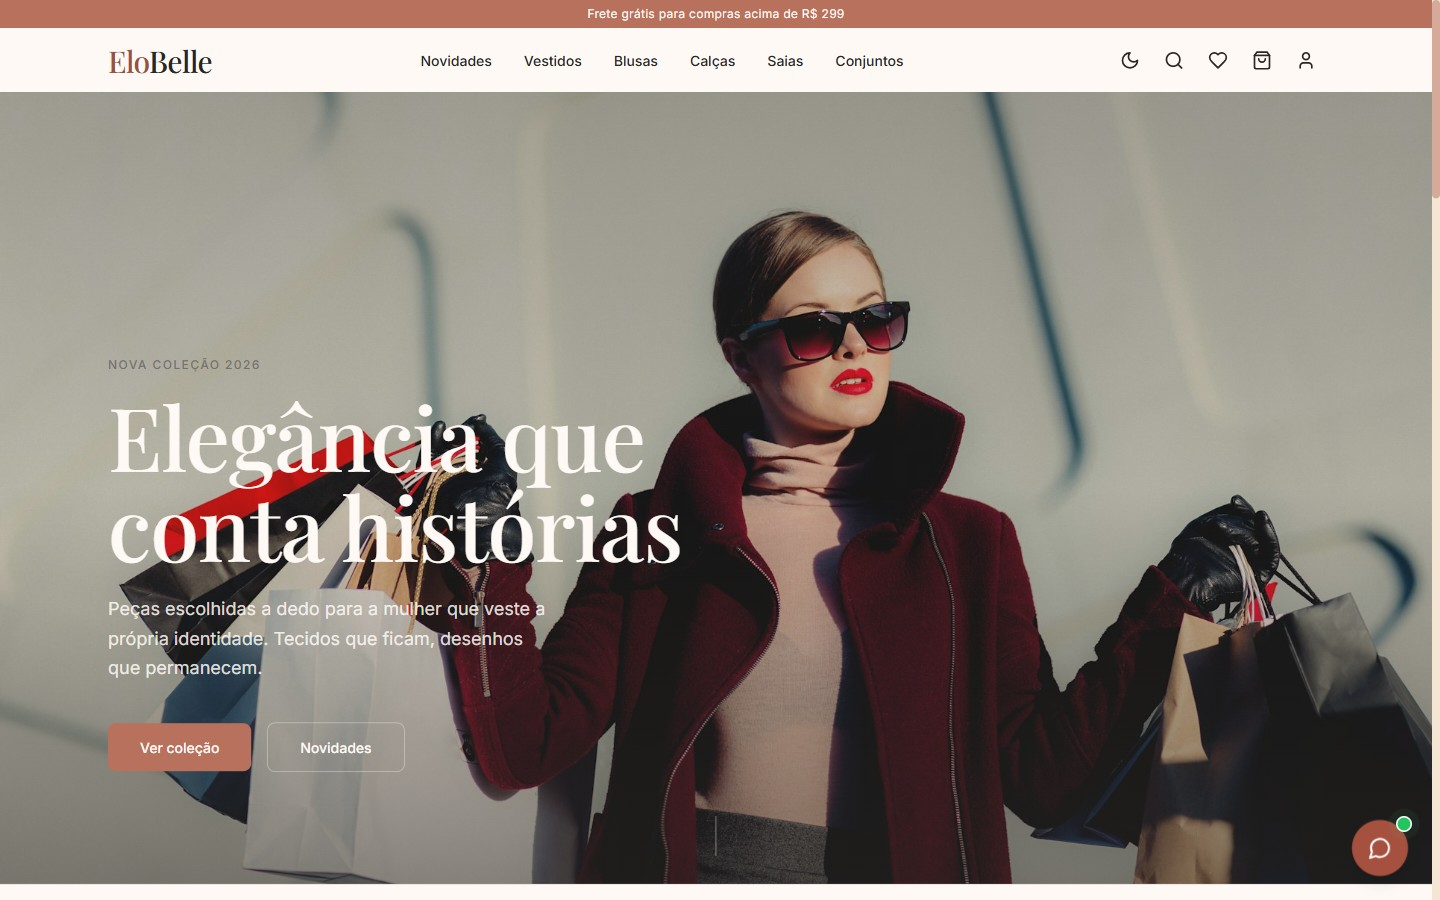
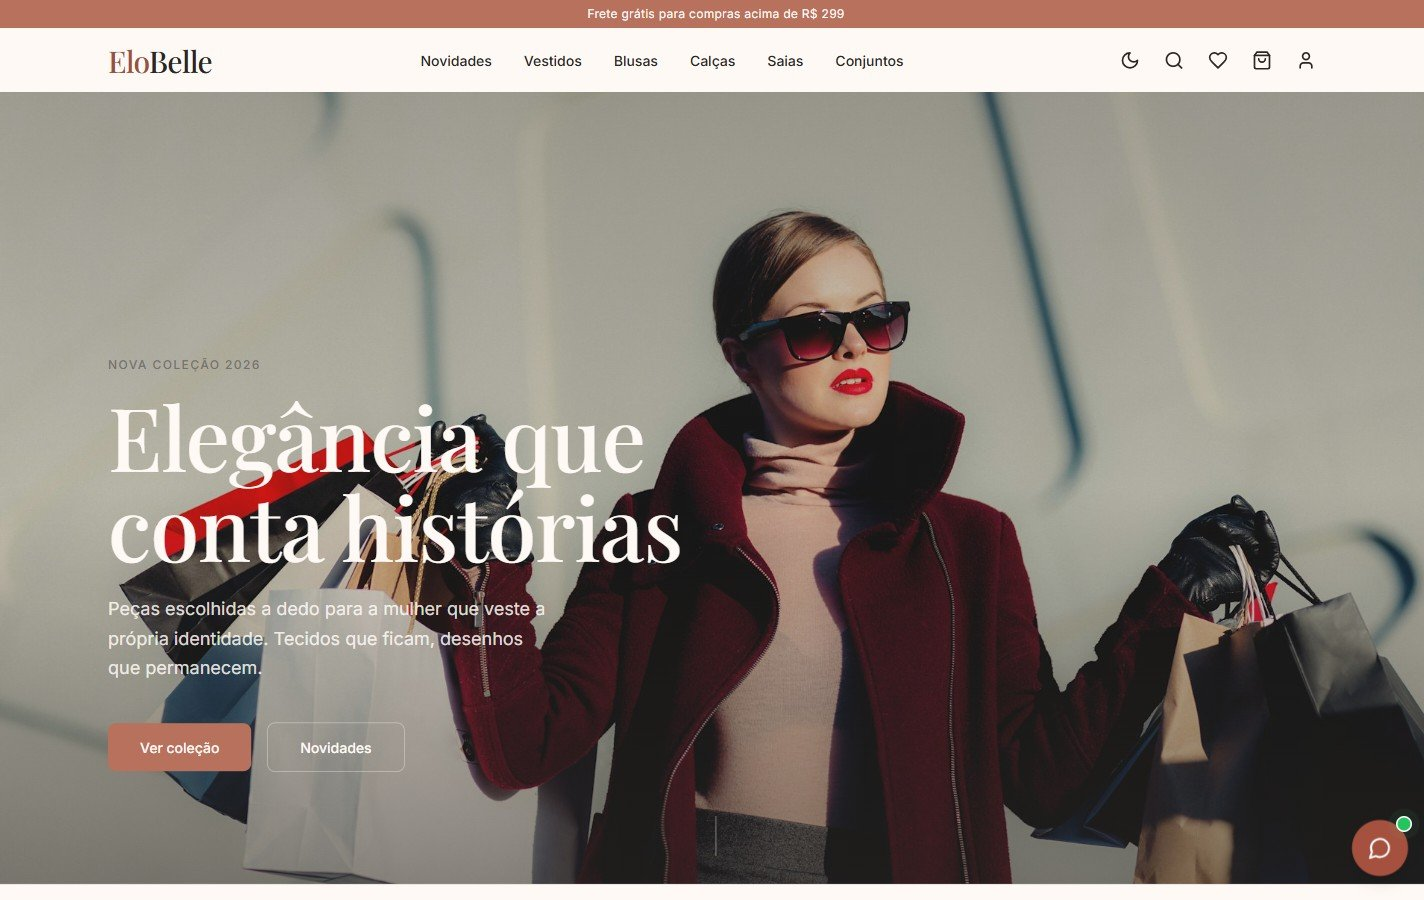
feat(projetos): faixa de numeros e projetos 001-005 com prints revelados e outros projetos

diff --git a/src/components/sections/Projects.tsx b/src/components/sections/Projects.tsx
@@ -1,0 +1,122 @@
+import { motion, useReducedMotion } from 'motion/react';
+import { featured, others } from '../../data/projects';
+import { useT } from '../../i18n/useT';
+import { ui } from '../../i18n/ui';
+import type { Project, ProjectLinks } from '../../types';
+import BlurText from '../ui/BlurText';
+import Label from '../ui/Label';
+import AiFlow from '../ui/AiFlow';
+
+function Links({ links, isPrivate }: { links: ProjectLinks; isPrivate?: boolean }) {
+  const { t } = useT();
+  const items = [
+    links.site && { href: links.site, label: t(ui.projects.site) },
+    links.demo && { href: links.demo, label: t(ui.projects.demo) },
+    links.code && { href: links.code, label: t(ui.projects.code) },
+  ].filter(Boolean) as Array<{ href: string; label: string }>;
+  return (
+    <div className="flex flex-wrap items-center gap-4 font-mono text-xs">
+      {items.map((l) => (
+        <a
+          key={l.href}
+          href={l.href}
+          target="_blank"
+          rel="noreferrer"
+          className="underline decoration-orange-bright decoration-2 underline-offset-4 hover:text-orange"
+        >
+          {l.label} ↗
+        </a>
+      ))}
+      {isPrivate && <span className="text-muted">● {t(ui.projects.private)}</span>}
+    </div>
+  );
+}
+
+function Row({ p }: { p: Project }) {
+  const { t } = useT();
+  const reduce = useReducedMotion();
+  return (
+    <article className="grid gap-6 border-t border-line py-10 md:grid-cols-[80px_1fr_minmax(0,420px)] md:gap-8">
+      <p className="font-mono text-xs text-muted">
+        <span className="text-orange-bright">●</span> {p.num}
+      </p>
+      <div>
+        <h3 className="display text-3xl text-orange md:text-4xl">{p.name}</h3>
+        <p className="mt-1 font-mono text-xs text-muted">
+          {t(p.role)}
+          {p.period ? ` · ${t(p.period)}` : ''}
+        </p>
+        <p className="mt-4 max-w-[520px] text-[15px] leading-relaxed text-ink/80">{t(p.summary)}</p>
+        <ul className="mt-5 flex flex-wrap gap-1.5" aria-label="Stack">
+          {p.stack.map((s) => (
+            <li key={s} className="chip">
+              {s}
+            </li>
+          ))}
+        </ul>
+        <div className="mt-5">
+          <Links links={p.links} isPrivate={p.private} />
+        </div>
+      </div>
+      <motion.div
+        className="group aspect-[16/10] overflow-hidden rounded-md bg-ink"
+        initial={reduce ? false : { clipPath: 'inset(12% 12% 12% 12% round 6px)' }}
+        whileInView={{ clipPath: 'inset(0% 0% 0% 0% round 6px)' }}
+        viewport={{ once: true, margin: '0px 0px -15% 0px' }}
+        transition={{ duration: 0.9, ease: [0.16, 1, 0.3, 1] }}
+      >
+        {p.illustration === 'ai-flow' ? (
+          <AiFlow />
+        ) : (
+          <img
+            src={p.shot}
+            alt={p.shotAlt ? t(p.shotAlt) : ''}
+            loading="lazy"
+            width={1424}
+            height={900}
+            className="h-full w-full object-cover object-top transition-transform duration-500 ease-out group-hover:scale-[1.03]"
+          />
+        )}
+      </motion.div>
+    </article>
+  );
+}
+
+export default function Projects() {
+  const { t } = useT();
+  // "Software que | está no ar | e gente | usa": escurece a 2ª e a 4ª parte.
+  const parts = [ui.projects.titleA, ui.projects.titleB, ui.projects.titleC, ui.projects.titleD].map((p) => t(p));
+  const dimWords: number[] = [];
+  let idx = 0;
+  parts.forEach((part, pi) => {
+    const n = part.split(' ').length;
+    if (pi % 2 === 1) for (let k = 0; k < n; k++) dimWords.push(idx + k);
+    idx += n;
+  });
+  return (
+    <section id="projetos" className="bg-paper py-20 md:py-28">
+      <div className="container-x">
+        <Label>{t(ui.projects.label)}</Label>
+        <BlurText as="h2" className="display mt-5 text-[clamp(36px,6vw,72px)]" text={parts.join(' ')} dimWords={dimWords} />
+        <div className="mt-12">
+          {featured.map((p) => (
+            <Row key={p.id} p={p} />
+          ))}
+        </div>
+
+        <h3 className="mt-16 font-mono text-xs uppercase tracking-[0.08em] text-muted">{t(ui.projects.othersTitle)}</h3>
+        <ul className="mt-4 divide-y divide-line border-y border-line">
+          {others.map((o) => (
+            <li key={o.id} className="grid gap-2 py-4 md:grid-cols-[200px_1fr_auto] md:items-center md:gap-6">
+              <span className="font-extrabold">{o.name}</span>
+              <span className="text-sm text-ink/75">
+                {t(o.line)} <span className="font-mono text-[11px] text-muted">· {o.stack.join(' · ')}</span>
+              </span>
+              <Links links={o.links} />
+            </li>
+          ))}
+        </ul>
+      </div>
+    </section>
+  );
+}

diff --git a/src/components/ui/AiFlow.tsx b/src/components/ui/AiFlow.tsx
@@ -1,0 +1,39 @@
+import { useT } from '../../i18n/useT';
+
+const L = {
+  aria: {
+    pt: 'Pedido, roteador de provedores com failover, avaliação e fine-tuning',
+    en: 'Request, provider router with failover, evaluation and fine-tuning',
+  },
+  request: { pt: 'pedido', en: 'request' },
+  router: { pt: 'roteador', en: 'router' },
+  eval: { pt: 'avaliação', en: 'evaluation' },
+};
+
+/** Ilustração do fluxo da Intranet IA: nenhum dado real, só a arquitetura. */
+export default function AiFlow() {
+  const { t } = useT();
+  const node = 'rounded border border-white/15 bg-white/5 px-2 py-1';
+  return (
+    <div role="img" aria-label={t(L.aria)} className="flex h-full flex-col justify-center gap-3 bg-ink p-5 font-mono text-[11px] text-white/80">
+      <div className="flex items-center gap-2">
+        <span className={node}>{t(L.request)}</span>
+        <span aria-hidden>→</span>
+        <span className={`${node} border-orange-bright/60 text-white`}>{t(L.router)}</span>
+      </div>
+      <div className="ml-14 flex flex-wrap gap-1.5">
+        {['groq', 'openrouter', 'mistral', 'nvidia'].map((p) => (
+          <span key={p} className={node}>
+            {p}
+          </span>
+        ))}
+      </div>
+      <div className="flex items-center gap-2">
+        <span aria-hidden>↳</span>
+        <span className={node}>{t(L.eval)}</span>
+        <span aria-hidden>→</span>
+        <span className={node}>SFT · KTO</span>
+      </div>
+    </div>
+  );
+}

diff --git a/src/components/sections/Stats.tsx b/src/components/sections/Stats.tsx
@@ -1,0 +1,22 @@
+import { stats } from '../../data/stats';
+import { useT } from '../../i18n/useT';
+import CountUp from '../ui/CountUp';
+
+export default function Stats() {
+  const { t, lang } = useT();
+  return (
+    <section aria-label={lang === 'pt' ? 'Números' : 'Numbers'} className="border-b border-line bg-paper">
+      <dl className="container-x grid grid-cols-2 gap-y-8 py-12 md:grid-cols-4">
+        {stats.map((s) => (
+          // flex-col-reverse: número acima do rótulo, mantendo dt antes de dd no DOM.
+          <div key={s.label.pt} className="flex flex-col-reverse border-l border-line pl-5">
+            <dt className="mt-2 max-w-[180px] text-sm leading-snug text-muted">{t(s.label)}</dt>
+            <dd className="text-5xl font-extrabold tracking-tightest text-ink md:text-6xl">
+              <CountUp value={s.value} suffix={s.suffix} />
+            </dd>
+          </div>
+        ))}
+      </dl>
+    </section>
+  );
+}

diff --git a/src/App.tsx b/src/App.tsx
@@ -1,5 +1,7 @@
 import Header from './components/layout/Header';
 import Hero from './components/sections/Hero';
+import Stats from './components/sections/Stats';
+import Projects from './components/sections/Projects';
 
 export default function App() {
   return (
@@ -7,6 +9,8 @@ export default function App() {
       <Header />
       <main id="conteudo">
         <Hero />
+        <Stats />
+        <Projects />
       </main>
     </>
   );

diff --git a/src/styles/globals.css b/src/styles/globals.css
@@ -70,5 +70,6 @@ body {
 
   .display {
     @apply font-extrabold uppercase leading-[0.95] tracking-tightest;
+    word-spacing: 0.08em;
   }
 }
